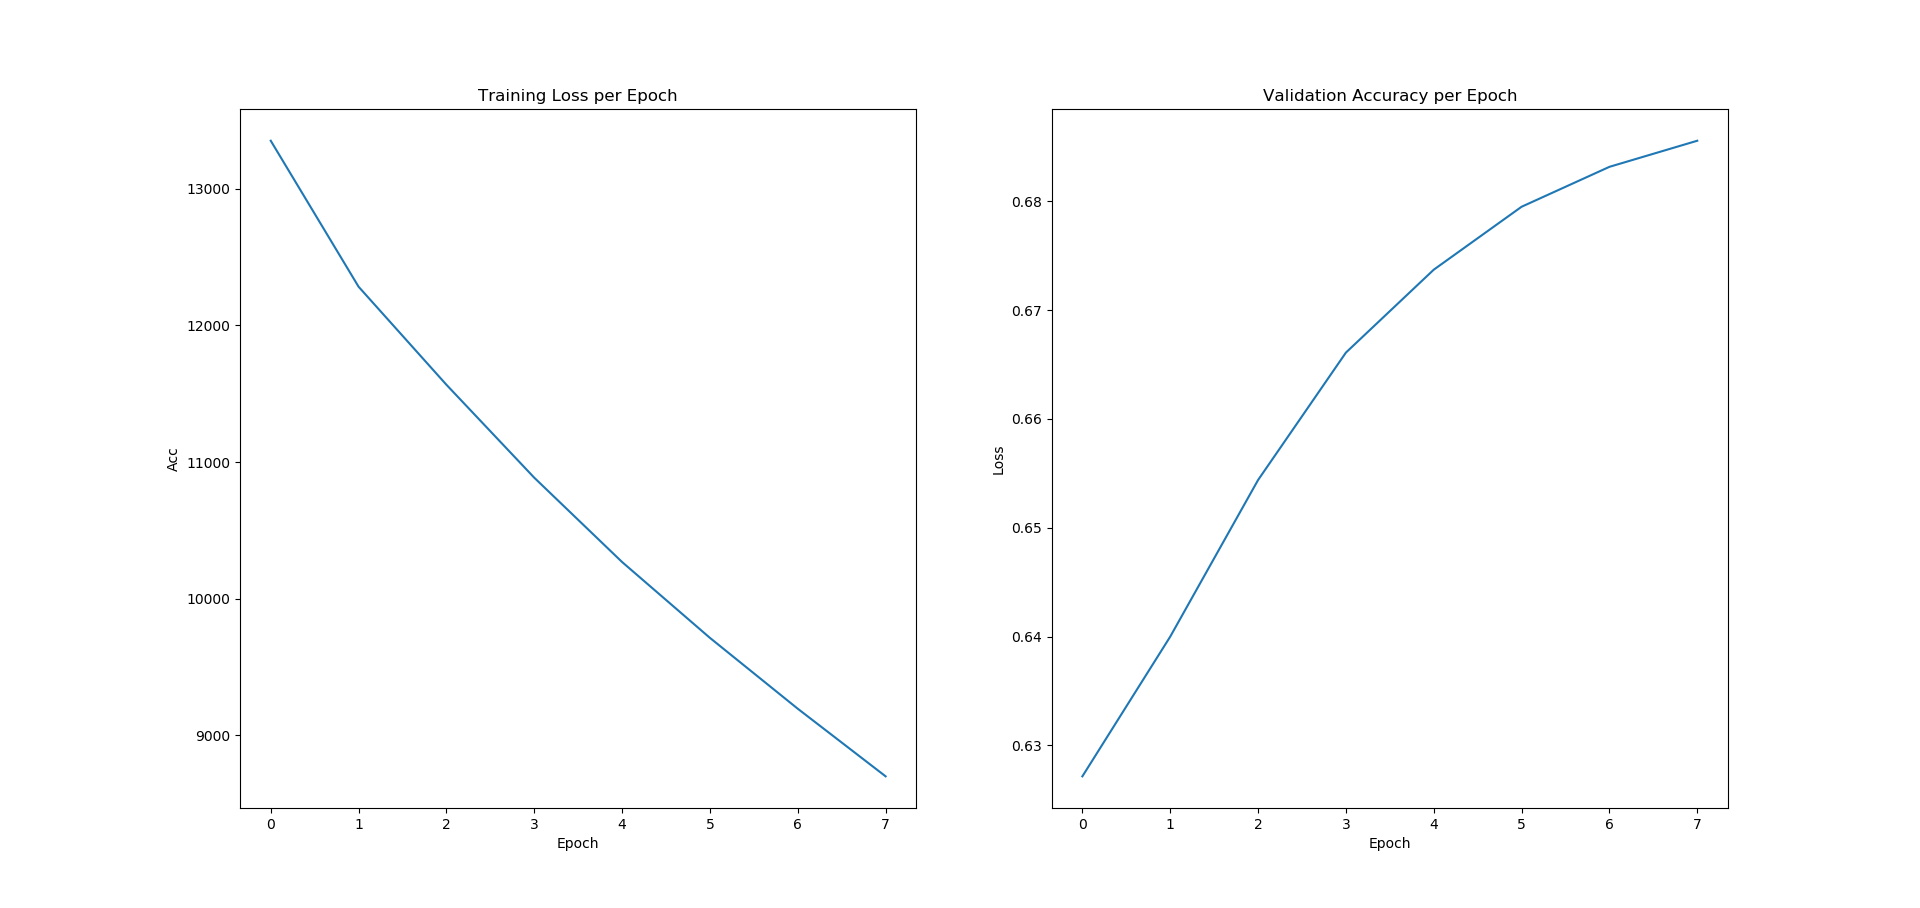
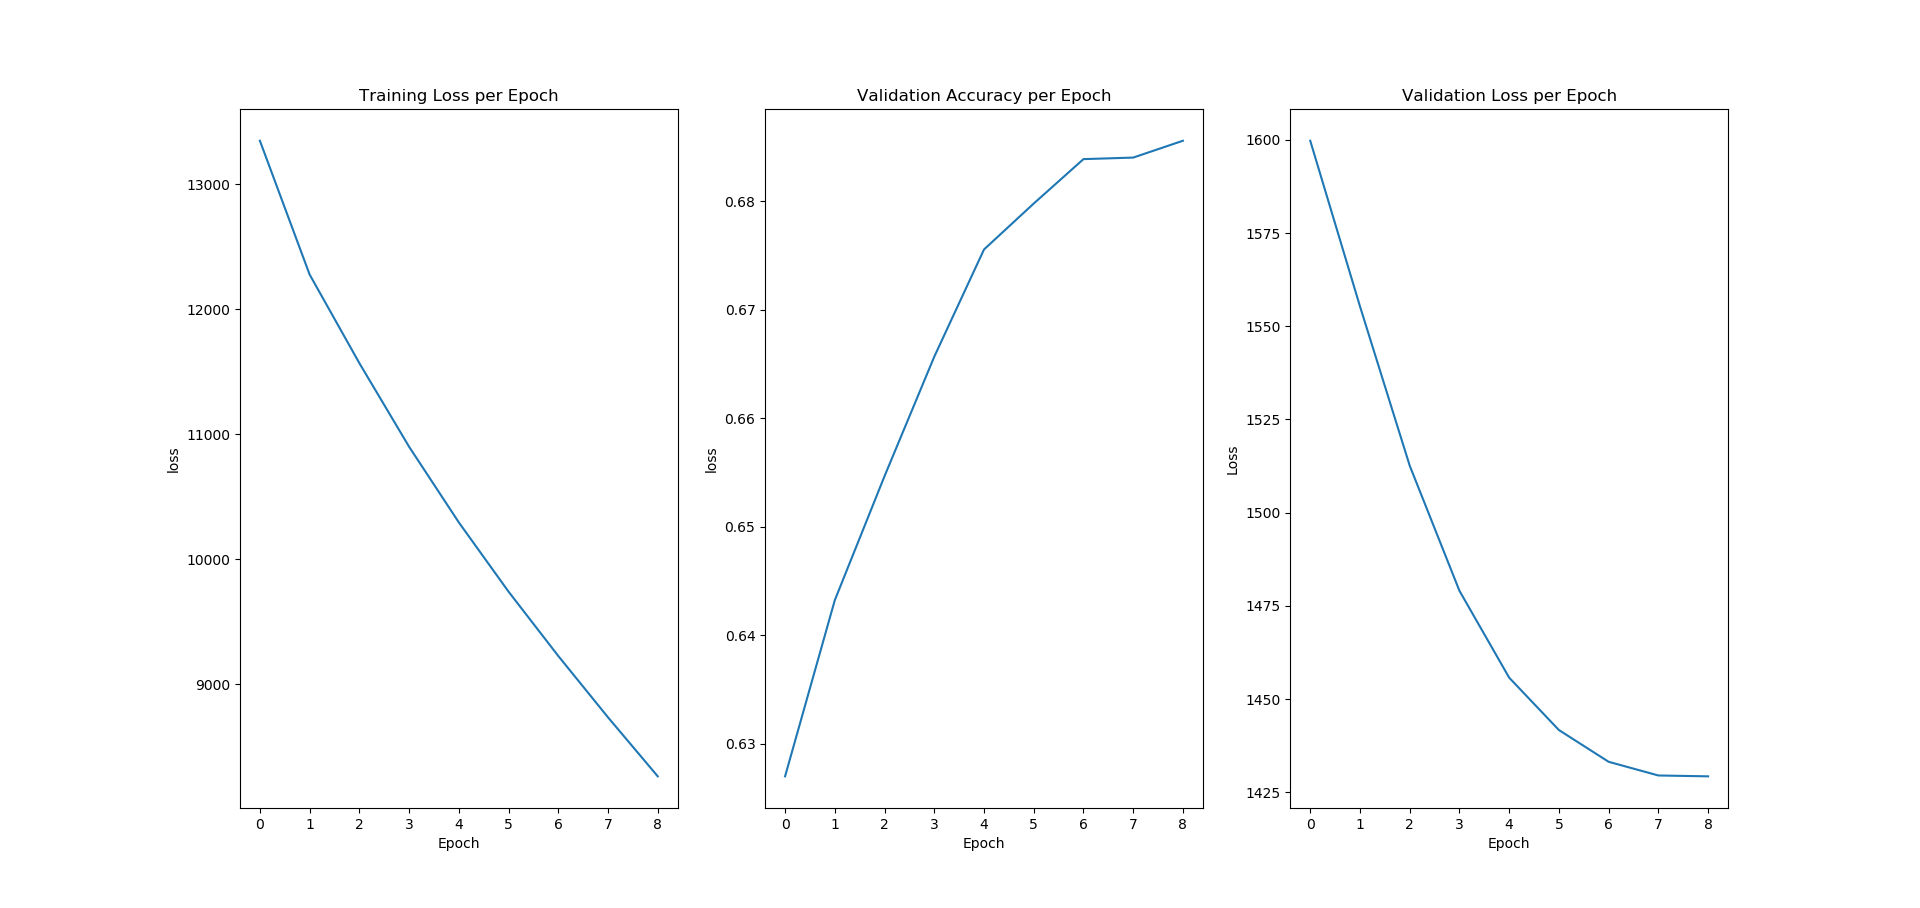
improved NN

diff --git a/part_b/neural_network_improved.py b/part_b/neural_network_improved.py
@@ -1,0 +1,279 @@
+import sys
+sys.path.append('../')
+
+from utils import *
+import torch
+from torch.autograd import Variable
+
+import torch
+import torch.nn as nn
+import torch.nn.functional as F
+import torch.optim as optim
+import torch.utils.data
+
+import numpy as np
+import matplotlib.pyplot as plt
+
+def load_data(base_path="../data"):
+    """ Load the data in PyTorch Tensor.
+
+    :return: (zero_train_matrix, train_data, valid_data, test_data)
+        WHERE:
+        zero_train_matrix: 2D sparse matrix where missing entries are
+        filled with 0.
+        train_data: 2D sparse matrix
+        valid_data: A dictionary {user_id: list,
+        user_id: list, is_correct: list}
+        test_data: A dictionary {user_id: list,
+        user_id: list, is_correct: list}
+    """
+    train_matrix = load_train_sparse(base_path).toarray()
+    valid_data = load_valid_csv(base_path)
+    test_data = load_public_test_csv(base_path)
+
+    zero_train_matrix = train_matrix.copy()
+    # Fill in the missing entries to 0.
+    zero_train_matrix[np.isnan(train_matrix)] = 0
+    # Change to Float Tensor for PyTorch.
+    zero_train_matrix = torch.FloatTensor(zero_train_matrix)
+    train_matrix = torch.FloatTensor(train_matrix)
+
+    return zero_train_matrix, train_matrix, valid_data, test_data
+
+def evaluate(model, train_data, valid_data):
+    """ Evaluate the valid_data on the current model.
+
+    :param model: Module
+    :param train_data: 2D FloatTensor
+    :param valid_data: A dictionary {user_id: list,
+    question_id: list, is_correct: list}
+    :return: float
+    """
+    # Tell PyTorch you are evaluating the model.
+    model.eval()
+
+    total = 0
+    correct = 0
+    loss = 0
+    
+
+    for i, u in enumerate(valid_data["user_id"]):
+        inputs = Variable(train_data[u]).unsqueeze(0)
+        output = model(inputs)
+
+        prob = output[0][valid_data["question_id"][i]]
+        target = valid_data["is_correct"][i]
+        guess = output[0][valid_data["question_id"][i]].item() >= 0.5
+        if guess == valid_data["is_correct"][i]:
+            correct += 1
+        total += 1
+        loss += torch.sum((target - prob) ** 2.).item()
+    return correct / float(total), loss
+
+class Dataset(torch.utils.data.Dataset):
+  'Characterizes a dataset for PyTorch'
+  def __init__(self, data_nan, data_zero):
+        self.data_nan = data_nan
+        self.data_zero = data_zero
+
+  def __len__(self):
+        return len(self.data_nan)
+
+  def __getitem__(self, index):
+        student_data = self.data_nan[index]
+        student_data_zero = self.data_zero[index]
+
+        return student_data, student_data_zero
+
+class AutoEncoder(nn.Module):
+    def __init__(self, num_question):
+        """ Initialize a class AutoEncoder.
+
+        :param num_question: int
+        :param k: int
+        """
+        super(AutoEncoder, self).__init__()
+
+        self.encoder = nn.Sequential(
+            nn.Linear(num_question, 64),
+            nn.Sigmoid(),
+            nn.Linear(64, 8),
+            nn.Sigmoid(),
+        )
+        
+        self.decoder = nn.Sequential(
+            nn.Linear(8, 64),
+            nn.Sigmoid(),
+            nn.Linear(64, num_question),
+            nn.Sigmoid(),
+        )
+
+    def forward(self, inputs):
+        """ Return a forward pass given inputs.
+
+        :param inputs: user vector.
+        :return: user vector.
+        """
+        out = self.encoder(inputs)
+        out = self.decoder(out)
+
+        return out
+
+# Function for adding Metadata to train data matrix
+def addMetaData(zero_train_matrix, train_matrix, path="../data"):
+    gender = np.zeros(train_matrix.shape[0])
+    birthYear = np.zeros(train_matrix.shape[0])
+
+    meta = load_student_meta_csv(path + "/student_meta.csv")
+    for i in range(len(meta["user_id"])):
+        gender[meta["user_id"][i]] = meta["gender"][i]
+
+    gender = gender/2
+
+    new_col = torch.from_numpy(gender).unsqueeze(1)
+
+    new_train_matrix = torch.cat((train_matrix, new_col), 1)
+    new_zero_train_matrix = torch.cat((zero_train_matrix, new_col), 1)
+
+    new_train_matrix = new_train_matrix.type(torch.FloatTensor)
+    new_zero_train_matrix = new_zero_train_matrix.type(torch.FloatTensor)
+
+    return new_zero_train_matrix, new_train_matrix
+
+def load_student_meta_csv(path):
+    # A helper function to load the csv file.
+    if not os.path.exists(path):
+        raise Exception("The specified path {} does not exist.".format(path))
+    # Initialize the data.
+    data = {
+        "user_id": [],
+        "gender": [],
+        "data_of_birth": []
+    }
+    # Iterate over the row to fill in the data.
+    with open(path, "r") as csv_file:
+        reader = csv.reader(csv_file)
+        for row in reader:
+            try:
+                data["user_id"].append(int(row[0]))
+                data["gender"].append(int(row[1]))
+                if row[2]:
+                  data["data_of_birth"].append(int(row[2][:4]))
+                else:
+                  data["data_of_birth"].append(-1)
+            except ValueError:
+                # Pass first row.
+                pass
+            except IndexError:
+                # is_correct might not be available.
+                pass
+    return data
+
+def train(model, lr, lamb, train_data, zero_train_data, valid_data, num_epoch, batch_size=50):
+    """ Train the neural network, where the objective also includes
+    a regularizer.
+
+    :param model: Module
+    :param lr: float
+    :param lamb: float
+    :param train_data: 2D FloatTensor
+    :param zero_train_data: 2D FloatTensor
+    :param valid_data: Dict
+    :param num_epoch: int
+    :return: None
+    """
+    # Tell PyTorch you are training the model.
+    model.train()
+
+    # Define optimizers and loss function.
+    optimizer = optim.SGD(model.parameters(), lr=lr)
+    num_student = train_data.shape[0]
+
+    # print( train_data.shape)
+
+    train_data_load = Dataset(train_data, zero_train_data)
+
+    cost = []
+    accValid = []
+    accTrain = []
+    lossValid = []
+
+    for epoch in range(0, num_epoch):
+        train_loss = 0.
+        # Shuffle and split training data into batches
+        train_loader = torch.utils.data.DataLoader(train_data_load, batch_size=50, num_workers=0, shuffle=True)
+
+        for batch in train_loader:
+            outputs, inputs = batch 
+
+            inputs = Variable(inputs).unsqueeze(0)
+            target = inputs.clone()
+
+            # FORWARD PASS
+            optimizer.zero_grad()
+            output = model(inputs)
+
+            # Mask the target to only compute the gradient of valid entries.
+            nan_mask = np.isnan(outputs.unsqueeze(0).numpy())
+            target[0][nan_mask] = output[0][nan_mask]
+            
+            # BACKWARD PASS
+            loss = torch.sum((output - target) ** 2.)
+            loss.backward()
+
+            train_loss += loss.item()
+            optimizer.step()
+
+        valid_acc, valid_loss = evaluate(model, zero_train_data, valid_data)
+        print("Epoch: {} \tTraining Cost: {:.6f}\t "
+              "Valid Acc: {} \t "
+              "Valid Cost: {}".format(epoch, train_loss, valid_acc, valid_loss))
+
+        cost.append(train_loss)
+        accValid.append(valid_acc)
+        lossValid.append(valid_loss)
+
+    return cost, accValid, lossValid
+
+def main(num_epoch, batch_size, lr):
+
+    zero_train_matrix, train_matrix, valid_data, test_data = load_data()
+
+    zero_train_matrix, train_matrix = addMetaData(zero_train_matrix, train_matrix)
+    questions_num = train_matrix.shape[1]
+
+    lamb_index = 0
+    # Set optimization hyperparameters.
+    lamb = [0, 0.001, 0.01, 0.1, 1]
+    # for i in range(len(k)):
+    model = AutoEncoder(questions_num)
+    res = train(model, lr, lamb[lamb_index], train_matrix, zero_train_matrix,
+          valid_data, num_epoch, batch_size)
+
+    test_acc = evaluate(model, zero_train_matrix, test_data)
+    print("Test Accuracy:", test_acc)
+
+    epochs = np.arange(num_epoch)
+
+    fig, ax = plt.subplots(1, 3)
+    ax[0].plot(epochs, res[0])  
+    ax[0].set_xlabel("Epoch")  
+    ax[0].set_ylabel("loss")  
+    ax[0].set_title("Training Loss per Epoch")
+
+    ax[1].plot(epochs, res[1])  
+    ax[1].set_xlabel("Epoch")  
+    ax[1].set_ylabel("loss")  
+    ax[1].set_title("Validation Accuracy per Epoch")
+
+    ax[2].set_xlabel("Epoch")  
+    ax[2].set_ylabel("Loss")  
+    ax[2].set_title("Validation Loss per Epoch")
+    ax[2].plot(epochs, res[2])
+    plt.show()
+
+if __name__ == "__main__":
+    epoch = 40
+    batch_size = 128
+    lr = 0.04
+    main(epoch, batch_size, lr)

diff --git a/part_a/neural_network.py b/part_a/neural_network.py
@@ -76,7 +76,7 @@ class AutoEncoder(nn.Module):
         # Use sigmoid activations for f and g.                              #
         #####################################################################
         out = self.g(inputs)
-        out = F.sigmoid(out)
+        out = F.relu(out)
         out = self.h(out)
         out = F.sigmoid(out)
         #####################################################################
@@ -108,10 +108,12 @@ def train(model, lr, lamb, train_data, zero_train_data, valid_data, num_epoch):
     optimizer = optim.SGD(model.parameters(), lr=lr)
     num_student = train_data.shape[0]
 
+    print( train_data.shape)
+
     cost = []
     accValid = []
     accTrain = []
-
+    lossValid = []
 
     for epoch in range(0, num_epoch):
         train_loss = 0.
@@ -141,16 +143,18 @@ def train(model, lr, lamb, train_data, zero_train_data, valid_data, num_epoch):
         reg = lamb/2 *model.get_weight_norm()
         train_loss += reg
 
-        valid_acc = evaluate(model, zero_train_data, valid_data)
+        valid_acc, valid_loss = evaluate(model, zero_train_data, valid_data)
         print("Epoch: {} \tTraining Cost: {:.6f}\t "
-              "Valid Acc: {}".format(epoch, train_loss, valid_acc))
+              "Valid Acc: {} \t "
+              "Valid Cost: {}".format(epoch, train_loss, valid_acc, valid_loss))
         # train_acc = evaluate(model, zero_train_data, train_data)
 
         cost.append(train_loss)
         accValid.append(valid_acc)
+        lossValid.append(valid_loss)
         # accTrain.append(train_acc)
 
-    return cost, accValid
+    return cost, accValid, lossValid
     #####################################################################
     #                       END OF YOUR CODE                            #
     #####################################################################
@@ -170,16 +174,21 @@ def evaluate(model, train_data, valid_data):
 
     total = 0
     correct = 0
+    loss = 0
+    
 
     for i, u in enumerate(valid_data["user_id"]):
         inputs = Variable(train_data[u]).unsqueeze(0)
         output = model(inputs)
 
+        prob = output[0][valid_data["question_id"][i]]
+        target = valid_data["is_correct"][i]
         guess = output[0][valid_data["question_id"][i]].item() >= 0.5
         if guess == valid_data["is_correct"][i]:
             correct += 1
         total += 1
-    return correct / float(total)
+        loss += torch.sum((target - prob) ** 2.).item()
+    return correct / float(total), loss
 
 
 def main():
@@ -194,14 +203,17 @@ def main():
 
     questions_num = train_matrix.shape[1]
 
-    i = 2
+    # print(zero_train_matrix)
+    # print(train_matrix)
+
+    i = 1
     lamb_index = 2
 
     k = [10, 50, 100, 200, 500]
     
     # Set optimization hyperparameters.
-    lr = [0.05, 0.05, 0.05, 0.05, 0.08]
-    num_epoch = [10, 8, 8, 7, 6]
+    lr = [0.05, 0.1, 0.05, 0.05, 0.08]
+    num_epoch = [10, 15, 10, 7, 6]
     lamb = [0, 0.001, 0.01, 0.1, 1]
     # for i in range(len(k)):
     model = AutoEncoder(questions_num, k[i])
@@ -213,15 +225,21 @@ def main():
 
     epochs = np.arange(num_epoch[i])
 
-    fig, ax = plt.subplots(1, 2)
+    fig, ax = plt.subplots(1, 3)
     ax[0].plot(epochs, res[0])  
     ax[0].set_xlabel("Epoch")  
-    ax[0].set_ylabel("Acc")  
+    ax[0].set_ylabel("loss")  
     ax[0].set_title("Training Loss per Epoch")
+
+    ax[1].plot(epochs, res[1])  
     ax[1].set_xlabel("Epoch")  
-    ax[1].set_ylabel("Loss")  
+    ax[1].set_ylabel("loss")  
     ax[1].set_title("Validation Accuracy per Epoch")
-    ax[1].plot(epochs, res[1])
+
+    ax[2].set_xlabel("Epoch")  
+    ax[2].set_ylabel("Loss")  
+    ax[2].set_title("Validation Loss per Epoch")
+    ax[2].plot(epochs, res[2])
     plt.show()
 
     #####################################################################
